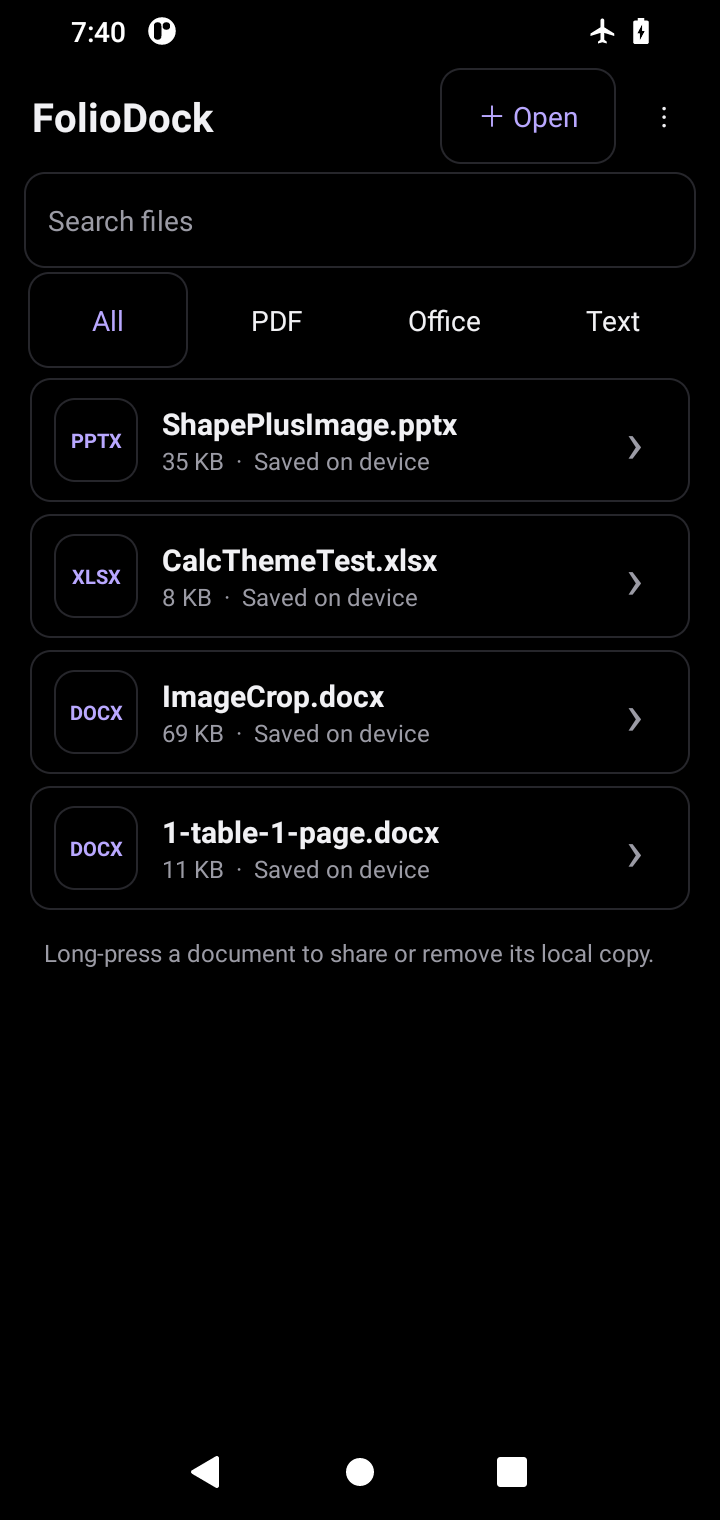
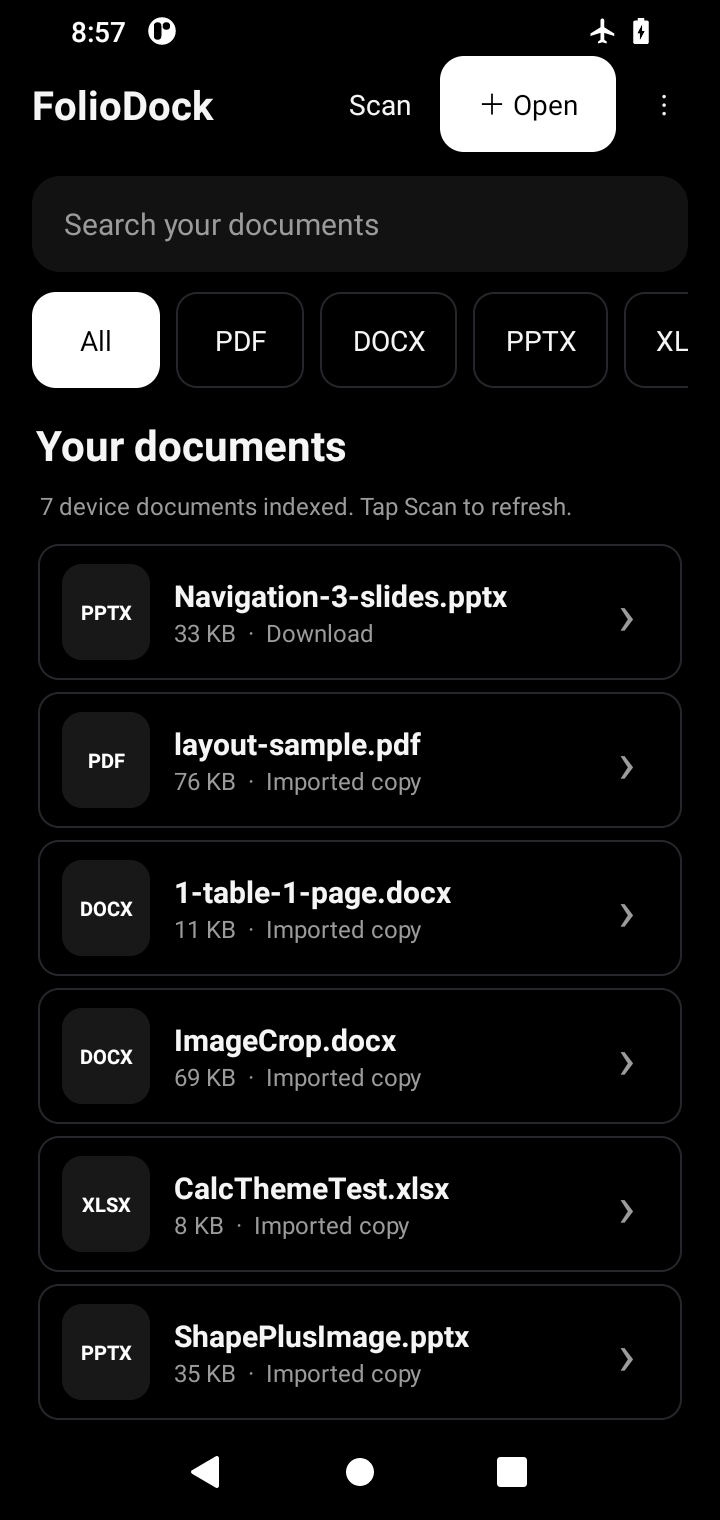
Document verified 3.0 update, scanning, and multi-slide rendering [skip ci]

diff --git a/docs/ANDROID_QA.md b/docs/ANDROID_QA.md
@@ -8,7 +8,23 @@ Validation performed on November 6, 2026. This records checks actually run, not 
 - **Build and package:** Debug/release lint and signed ARM64/x86_64 assemblies pass. The package remains `app.foliodock`; version name is `3.0`, with internal version code `300006` for build 6.
 - **Signing continuity:** Both APKs verify against the same certificate used for the earlier release. No key regeneration or package-name change was introduced.
 - **Permissions:** The release checker now permits only `MANAGE_EXTERNAL_STORAGE` and `READ_EXTERNAL_STORAGE` capped at API 29. No Internet or install-packages permission is declared.
-- **Runtime qualification:** The software-emulated Android test environment suffered system-server watchdog restarts before the new app could be installed. These operating-system failures are not counted as successful 3.0 runtime checks. The earlier native-engine checks below are historical; new scanning, upgrade-data retention, launcher sizing, and multi-slide interactions require a separate runtime pass.
+- **CI release:** [Build 6](https://github.com/virgil48YT/foliodock/actions/runs/42190339900) completed successfully and published [v3.0](https://github.com/virgil48YT/foliodock/releases/tag/v3.0), targeting source commit `756c5a5baa594fd50a07cf30d919d557ee3a2229`. Its downloaded ARM64 APK matched the published SHA-256 checksum and passed the release identity, permissions, and packaging verifier.
+
+### Version 3.0 runtime checks
+
+Environment: Android 11 / API 30 x86_64 software emulator. Runtime checks used a locally assembled, signed release APK from the same app source, not a debug APK. CI and local APK hashes differ; the separately downloaded CI ARM64 package received static verification, not an ARM64 runtime pass.
+
+- **In-place update:** `adb install --no-streaming -r` succeeded over the earlier release-signed preview without uninstalling. Android reported `versionCode=300006` and `versionName=3.0`. A marker in the existing app-private files directory remained unchanged, as did previously imported document copies.
+- **Permission flow:** The first-launch explanation appeared with Allow storage and Not now. Allow storage opened Android's per-app All files access screen, which displayed FolioDock version 3.0. Enabling the switch and returning to the app initiated scanning.
+- **Device discovery:** After correcting an accidentally private permission mode on the emulator's seeded Download fixture directory, scanning found seven supported documents across shared-storage folders. The UI displayed 23 files checked. The persisted `device-documents.index` remained available after force-stopping and relaunching the app.
+- **Format filtering:** Selecting PPTX limited the list to presentations, including a newly discovered `Download/Navigation-3-slides.pptx`. The row identified the original's folder rather than presenting it as an imported copy.
+- **Native multi-slide rendering:** Opening that scanned presentation initialized LibreOfficeKit successfully. Slide 1 displayed “SLIDE 1 OF 3”; Next displayed “SLIDE 2 OF 3”; the slide chooser listed all three slides and opened “SLIDE 3 OF 3.” Previous returned from slide 3 to slide 2. At the final slide, Next was visibly disabled. These were distinct rendered slide contents, not just counter changes.
+- **AMOLED presentation:** The observed library, reader chrome, slide controls, and dialogs were black with white/gray controls and no purple accent. The presentation screenshots use the existing Night page colors preference; original file colors remain available.
+- **Icon:** Android's application-access settings displayed the new larger monochrome adaptive document mark, replacing the earlier small purple nested-tile artwork.
+
+Screenshots in `docs/screenshots/amoled-library.png` and `docs/screenshots/pptx-slide-3.png` show this 3.0 runtime pass. The software emulator initially suffered Android system-server watchdog restarts before installation; those boot failures are not counted as app failures or as successful checks. Testing continued only after the system stabilized.
+
+The three-slide navigation deck was a diagnostic derivative of the public LibreOffice slide fixture listed below, with distinct slide-number text added for this test. It is not a claim that the original one-slide fixture contained three slides.
 
 ## Earlier 2.0 baseline
 

diff --git a/RELEASE_NOTES.md b/RELEASE_NOTES.md
@@ -25,6 +25,14 @@ The app's visible version and GitHub release are both labeled 3.0. Android also 
 
 Only the earliest debug-signed prototype cannot accept a release-key update in place. Back up any app-only copies if you need that one-time migration. Do not uninstall normal release-signed builds before updating.
 
+## Verification
+
+GitHub CI passed tests, Android lint, signed builds, and release-package checks. The downloaded CI ARM64 APK also matched its published checksum and the existing release certificate.
+
+On an Android 11 x86_64 emulator, the 3.0 release build installed over the earlier signed preview without uninstalling and retained app-private data. Storage permission, discovery, index persistence, and PPTX filtering were exercised. A three-slide deck rendered three distinct slide contents; Next, Previous, and the slide chooser were checked. Physical ARM64 devices have not received a runtime pass.
+
+See [the detailed QA record](https://github.com/virgil48YT/foliodock/blob/main/docs/ANDROID_QA.md) for scope and screenshots.
+
 ## Limits
 
 Scanning cannot access other apps' protected folders, unmounted volumes, or cloud-only providers. The local index is capped at 50,000 supported documents with an explicit limit message, and opening remains limited to 80 MB per file. Documents are read-only; complex Office formatting can differ from Microsoft Office.

diff --git a/README.md b/README.md
@@ -2,7 +2,9 @@
 
 An offline Android document reader with a monochrome AMOLED-black homepage, device-wide document discovery, a compact reader, and a real LibreOffice layout engine. Office pages are rendered with their layouts rather than reconstructed from extracted text.
 
-<img src="docs/screenshots/amoled-reader.png" alt="Word table layout with night page colors, captured during engine verification" width="240">
+<img src="docs/screenshots/amoled-library.png" alt="FolioDock 3.0 monochrome AMOLED homepage after storage scanning" width="240"> <img src="docs/screenshots/pptx-slide-3.png" alt="FolioDock 3.0 rendering the third slide with visible slide navigation and night page colors" width="240">
+
+Actual Android screenshots. The [QA record](docs/ANDROID_QA.md) documents update-data retention, storage discovery, and navigation through a three-slide presentation.
 
 ## Download the APK
 
